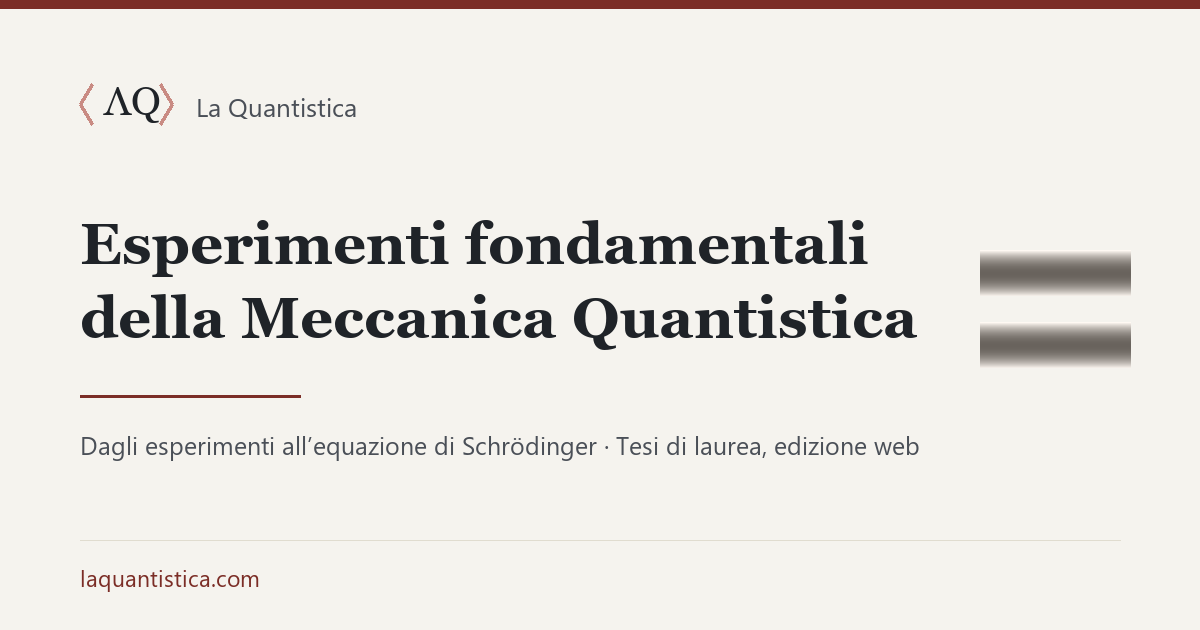
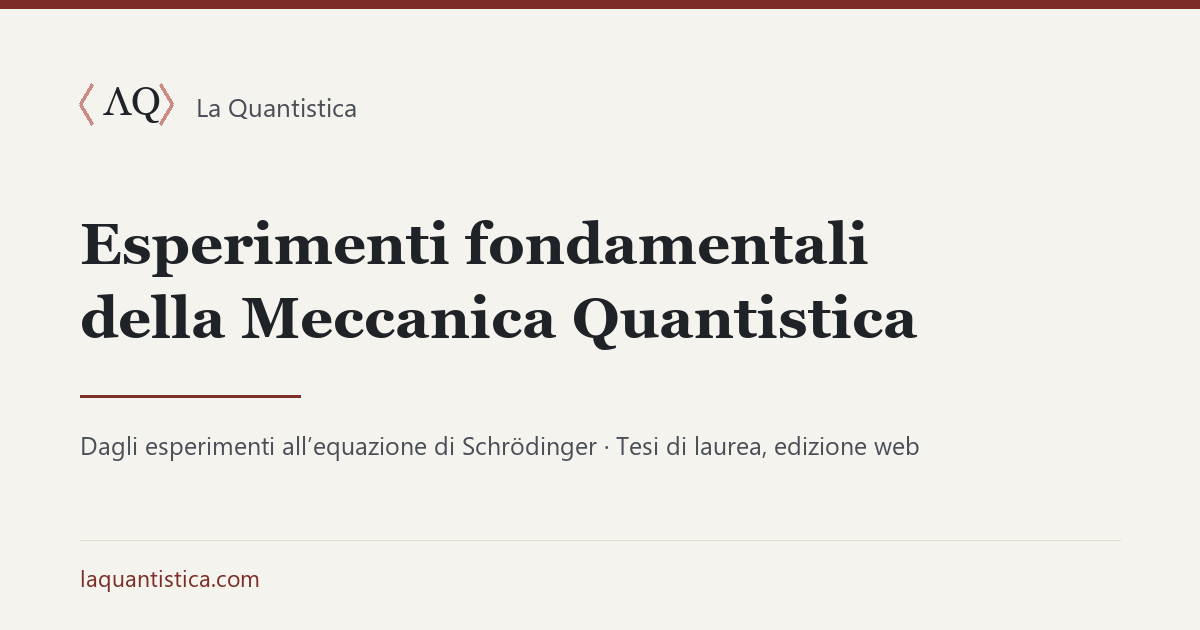
Add Lanternina website link and fix La Quantistica cover

Changed region(s): [[0.8017, 0.5127, 0.9558, 0.6032], [0.8017, 0.3921, 0.9558, 0.4825]]

diff --git a/index.html b/index.html
@@ -89,7 +89,7 @@
 
         <section class="project project-primary full" aria-labelledby="project-quantistica">
           <figure class="project-image">
-            <img src="assets/quantistica.png" width="1200" height="630" alt="La Quantistica: electron diffraction rings and the Schrödinger equation" loading="eager">
+            <img src="assets/quantistica.png" width="1200" height="630" alt="La Quantistica course cover: Fundamental Experiments of Quantum Mechanics" loading="eager">
           </figure>
           <div class="project-copy">
             <p class="project-number">01</p>
@@ -112,7 +112,10 @@
             <h3 id="project-lanternina">Lanternina</h3>
             <p data-en="A home activity system for adolescents. AI proposes an activity; a parent reviews it; paper and e-paper devices deliver it. The local hub controls equipment and time, while models run in Microsoft Foundry." data-it="Un sistema domestico di attività per adolescenti. L’AI propone un’attività; un genitore la rivede; carta e display e-paper la rendono disponibile. L’hub locale controlla dispositivi e tempi, mentre i modelli operano in Microsoft Foundry.">A home activity system for adolescents. AI proposes an activity; a parent reviews it; paper and e-paper devices deliver it. The local hub controls equipment and time, while models run in Microsoft Foundry.</p>
             <p class="project-limit" data-en="Content safety and parental approval are gates. No model runs in the house." data-it="La sicurezza dei contenuti e l’approvazione del genitore sono passaggi obbligati. Nessun modello opera in casa.">Content safety and parental approval are gates. No model runs in the house.</p>
-            <div class="project-links"><a href="https://github.com/faustinopalma/lanternina">GitHub</a></div>
+            <div class="project-links">
+              <a href="https://www.lanternina.com/" data-en="Visit the website" data-it="Visita il sito">Visit the website</a>
+              <a href="https://github.com/faustinopalma/lanternina">GitHub</a>
+            </div>
           </div>
         </section>
 
